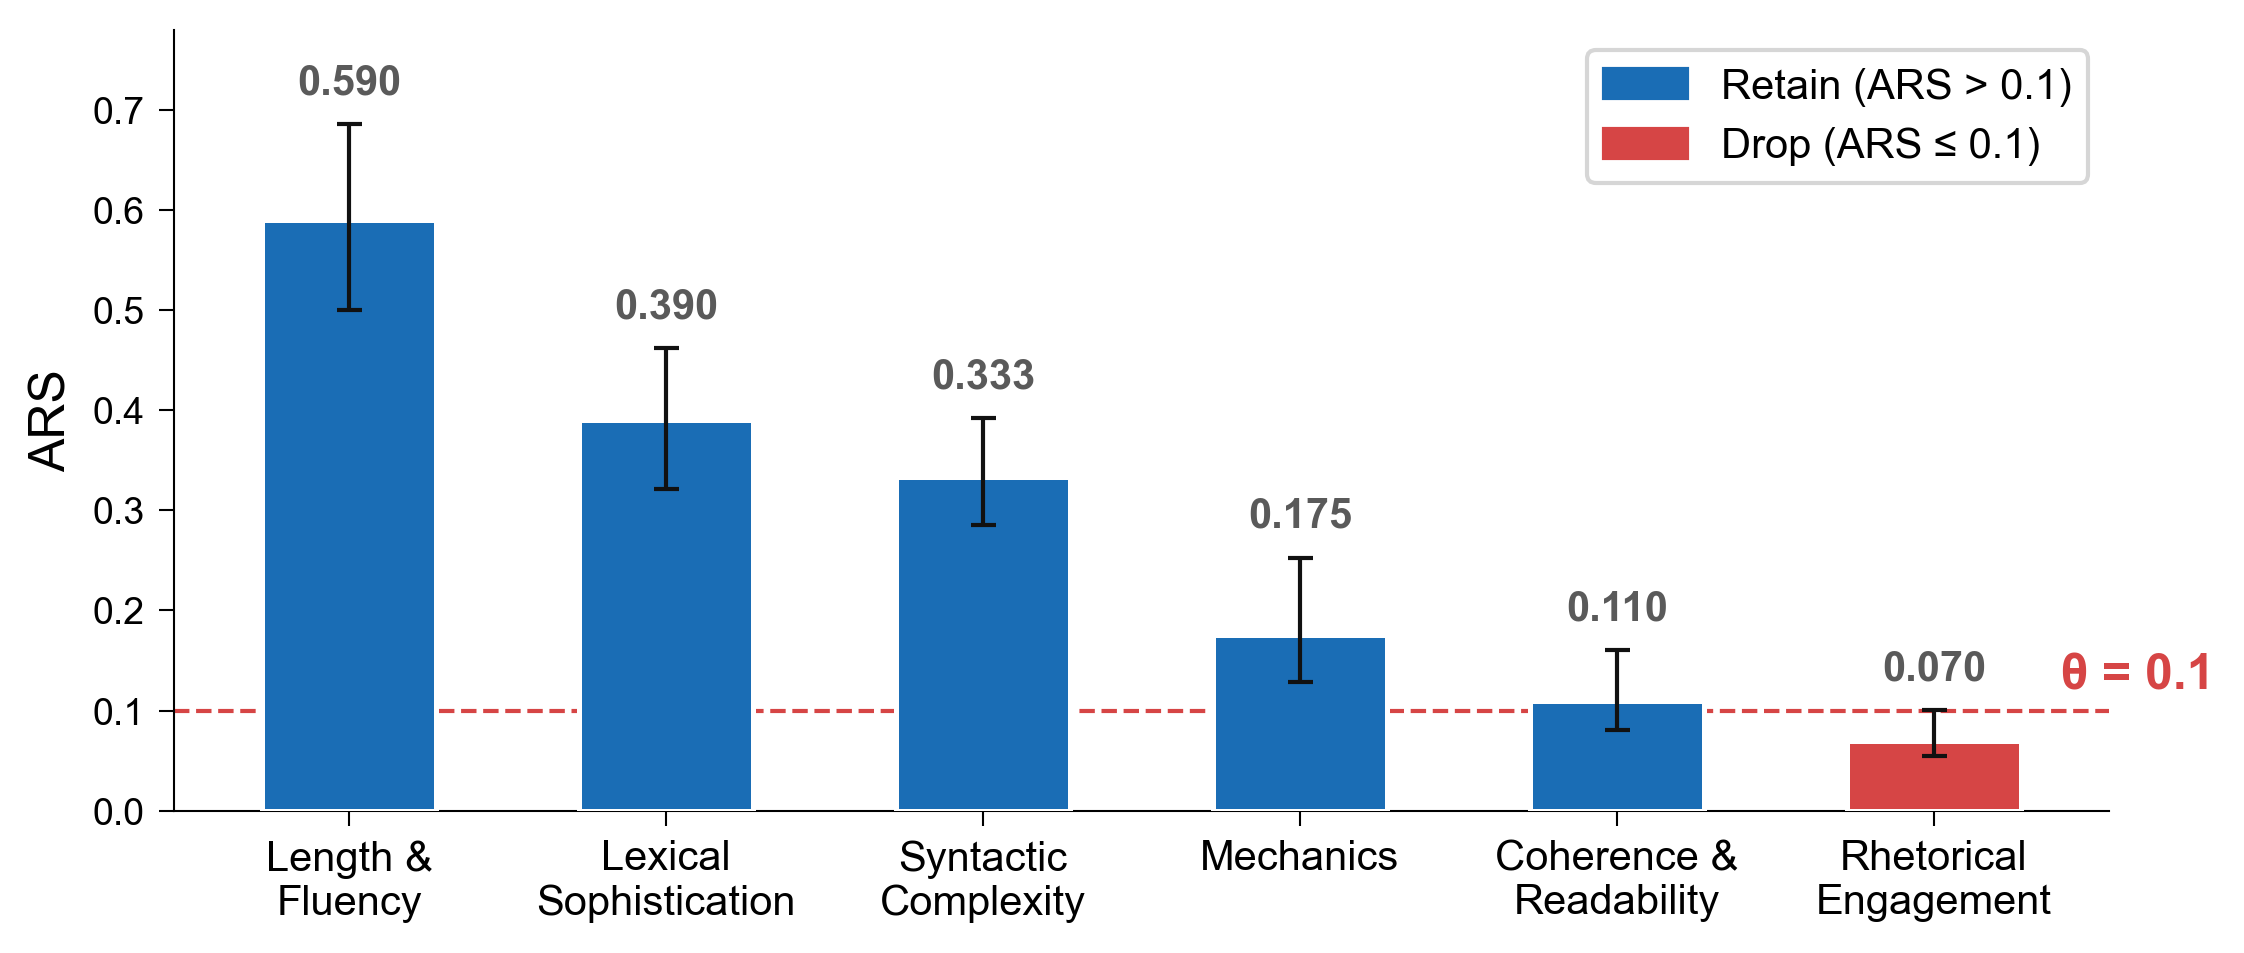
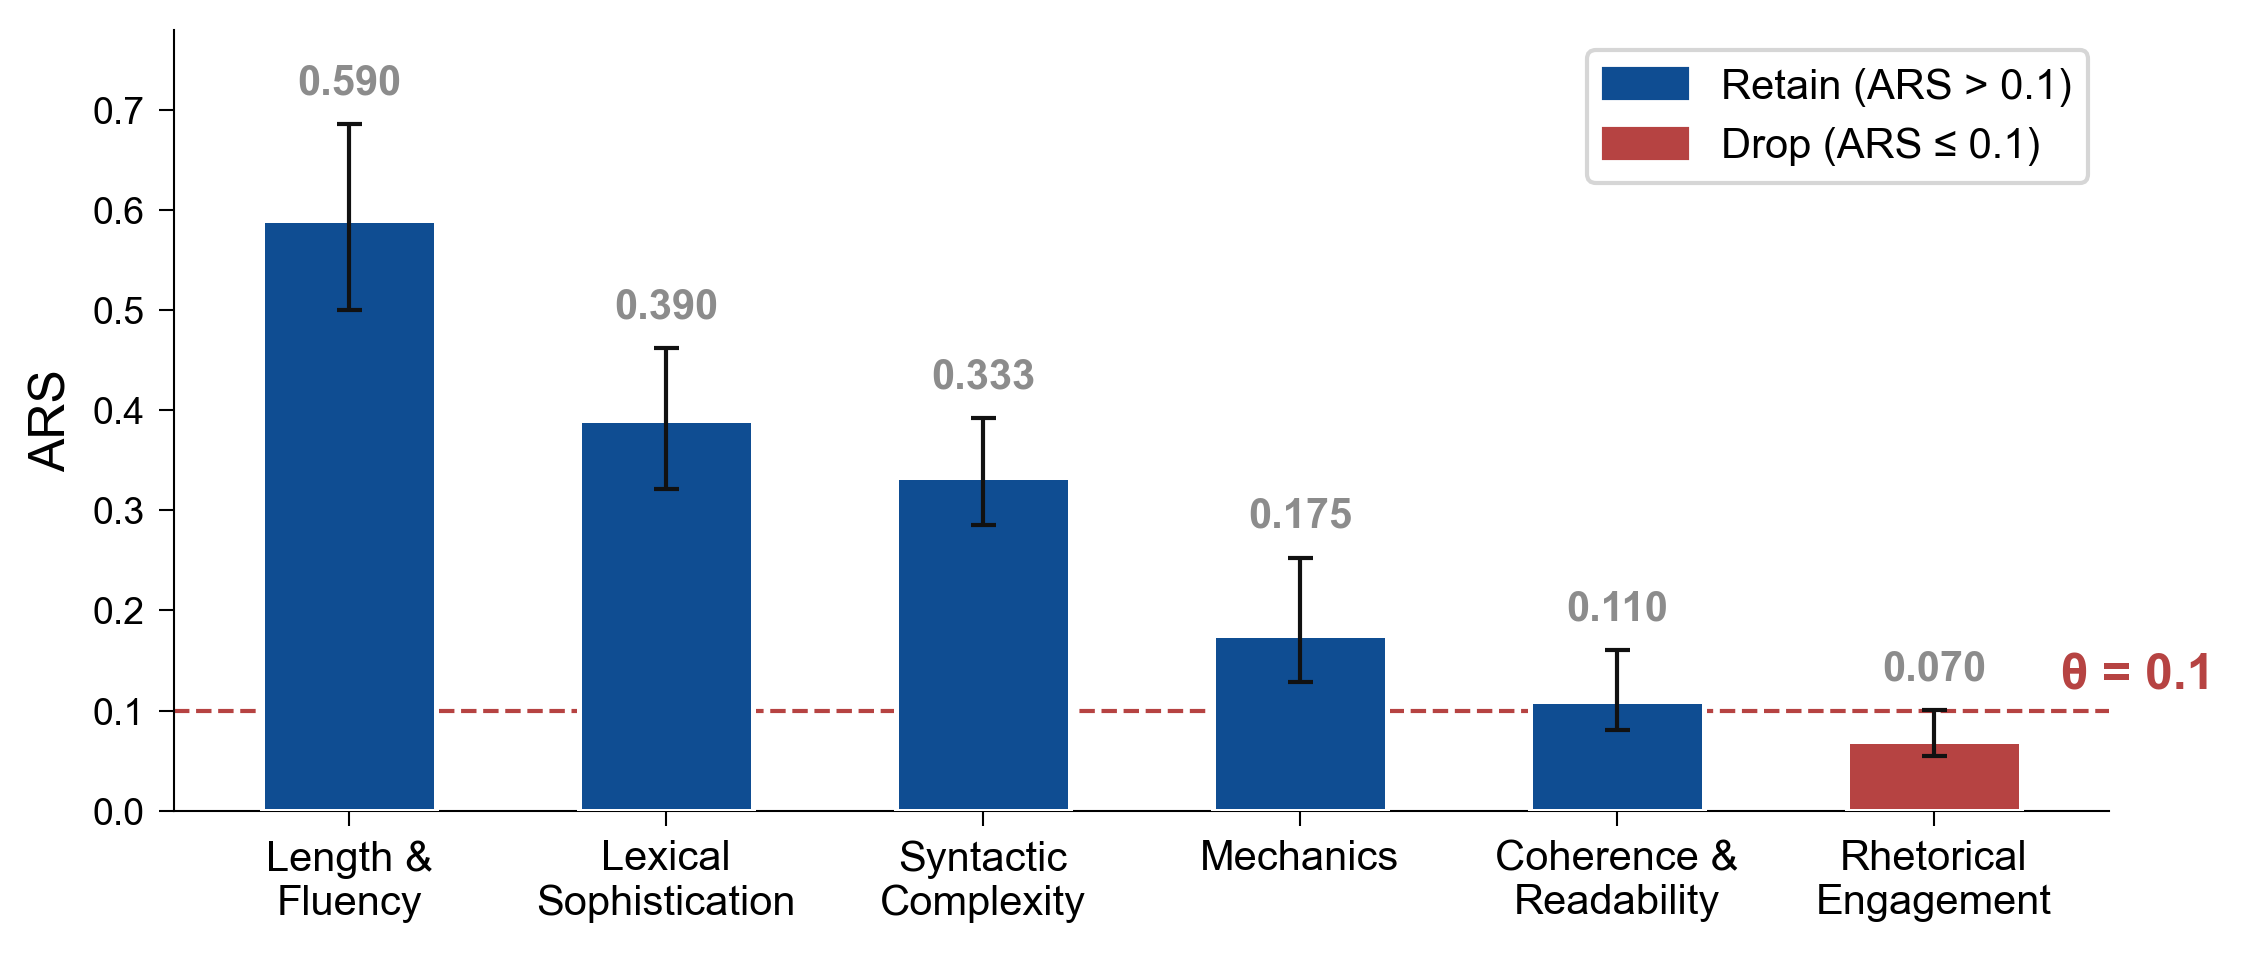
Unify figure palette to blue/red/gray (max three colors per figure), sync scripts

diff --git a/figures/figure_scripts/generate_fig3_bb_delta.py b/figures/figure_scripts/generate_fig3_bb_delta.py
@@ -153,9 +153,9 @@ def main():
     print(f"saved -> {out_dir / 'result.json'}")
 
     # ---- Figure: 48 pairs + 8 prompt-level means ----
-    RED = '#A8383B'
-    BLUE = '#0C457A'
-    GRAY = '#5A5A5A'
+    RED = '#B64342'
+    BLUE = '#0F4D92'
+    GRAY = '#8C8C8C'
     INK = '#111111'
     plt.rcParams.update({
         'font.family': 'sans-serif',
@@ -174,7 +174,7 @@ def main():
                edgecolors='white', linewidth=1.2, zorder=3, label='P-in (n=24)')
     ax.scatter(xs[~pin], ys[~pin], c=BLUE, marker='o', s=42, alpha=0.65,
                edgecolors='white', linewidth=1.2, zorder=3, label='P-LOPO (n=24)')
-    ax.scatter(mx, my, c=INK, marker='D', s=80, edgecolors='white', linewidth=1.4,
+    ax.scatter(mx, my, c=GRAY, marker='D', s=80, edgecolors='white', linewidth=1.4,
                zorder=5, label='Prompt mean (n=8)')
     ax.axhline(0, color=GRAY, linewidth=0.8, linestyle='--', zorder=1)
     ax.set_xlabel('BlackBox QWK', fontsize=12)

diff --git a/figures/figure_scripts/generate_fig5_validation.py b/figures/figure_scripts/generate_fig5_validation.py
@@ -50,12 +50,12 @@ mmd_mean_6 = float(np.mean(mmd_6))
 mmd_mean_5 = float(np.mean(mmd_5))
 delta_mmd = mmd_mean_5 - mmd_mean_6
 
-BLUE   = '#1A6DB5'
-RED    = '#D64545'
-ORANGE = '#E8923F'
-GRAY   = '#3A3A3A'
-PURPLE = '#6B3FA0'
-DKGRY  = '#808080'
+BLUE   = '#0F4D92'
+RED    = '#B64342'
+ORANGE = '#8C8C8C'
+GRAY   = '#8C8C8C'
+
+DKGRY  = '#8C8C8C'
 INK    = '#111111'
 
 plt.rcParams.update({
@@ -102,7 +102,7 @@ p0, p1 = 0, 0.85
 
 ax2.bar([p0], [mmd_mean_6], bar_w, color=DKGRY, edgecolor='white',
         linewidth=1.2, zorder=3)
-ax2.bar([p1], [mmd_mean_5], bar_w, color=PURPLE, edgecolor='white',
+ax2.bar([p1], [mmd_mean_5], bar_w, color=BLUE, edgecolor='white',
         linewidth=1.2, zorder=3)
 
 # Horizontal dashed lines from y-axis to x=1.0

diff --git a/figures/figure_scripts/generate_fig4_ars.py b/figures/figure_scripts/generate_fig4_ars.py
@@ -74,9 +74,9 @@ ci_map = dict(zip(ci_df["group"], zip(ci_df["ci_lo"], ci_df["ci_hi"])))
 ci_lo = np.array([ci_map[g][0] for g in ANCHOR_GROUPS])
 ci_hi = np.array([ci_map[g][1] for g in ANCHOR_GROUPS])
 
-BLUE      = '#1A6DB5'
-RED       = '#D64545'
-GRAY      = '#5A5A5A'
+BLUE      = '#0F4D92'
+RED       = '#B64342'
+GRAY      = '#8C8C8C'
 INK       = '#111111'
 
 plt.rcParams.update({

diff --git a/figures/figure_scripts/generate_fig1_accuracy.py b/figures/figure_scripts/generate_fig1_accuracy.py
@@ -54,9 +54,8 @@ for exp_ids in ([f"B1_Pin_feat_blackbox_s{s}" for s in SEEDS],
 # Colours.
 BLUE     = '#0F4D92'
 RED      = '#B64342'
-PURPLE   = '#5B2D8E'
 DARKGRAY = '#8C8C8C'
-GRAY     = '#5A5A5A'
+GRAY     = '#8C8C8C'
 INK      = '#111111'
 WHITE    = '#FFFFFF'
 
